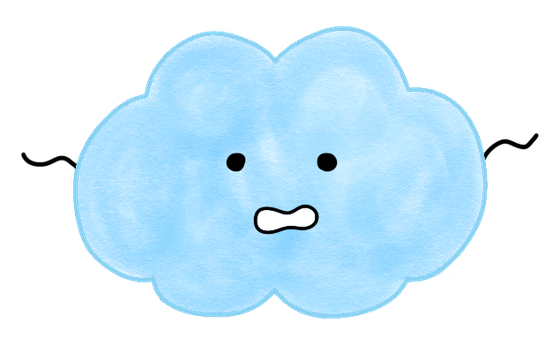
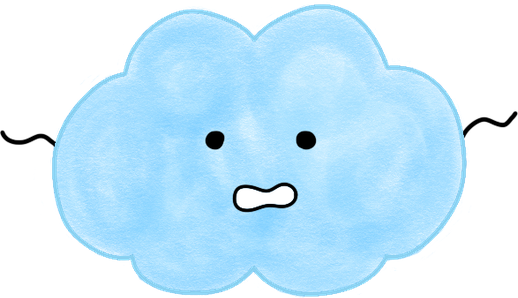
fix(frontend): 마스코트 6종을 내용 경계로 크롭하고 정사각 박스에 가운데 정렬
캐릭터마다 화면에서 위치·크기가 달라 보이던 원인이 두 겹이었다.

1) PNG 자체에 투명 여백이 있었다. 캔버스마다 18~21px씩, snow는 그마저
   비대칭이라 중심이 (-8, -6) 어긋나 있었다. drop은 오른쪽으로 알파 1~7의
   보이지 않는 잔털이 107px 뻗어 있어 그림이 그만큼 작게 그려졌다.
   여섯 장 모두 알파 경계(임계 8)로 크롭했다 — 잘려나간 것은 여백뿐이다.

2) SideNav 튜터가 폭만 지정하고 있었다(w-[74px]). 세로가 원본 비율을 따라가
   카드 높이가 캐릭터마다 달랐고(가로형 cloud 45.6px ↔ 세로형 bolt 119.4px)
   화면을 옮길 때마다 사이드바 아래가 들썩였다. 74x74 정사각으로 바꿨다.

object-contain은 호출부에서 걷어내 Mascot 안으로 옮겼다 — 빠뜨리면 세로가
정해진 박스에서 그림이 늘어나는데, 원본 비율이 캐릭터마다 달라 왜곡 정도가
제각각이 된다. 빠뜨릴 수 없는 자리에 둔다.

실측(74x74 박스): 여섯 장 전부 박스 중심과 그림 중심 오차 0.01px, 카드 높이
동일. 이전에는 bolt 하나가 카드 밖으로 45px 넘쳤다.

계약 테스트 `test:mascot` 추가(의존 0, 자체 PNG 디코더) — 세 조건을 다 못
박는다: PNG 투명 여백 0 · Mascot의 object-contain 내장 · 호출부 가로세로 동시 지정.
셋 중 하나만 어긋나도 증상은 똑같이 "정렬이 안 맞는다"로 나타나서 눈으로는
원인을 갈라낼 수 없다. 세 가지를 각각 되살려 전부 FAIL하는 것을 확인했다.
CI FRONT_TESTS에 등록(16종 -> 17종).

Claude-Session: https://claude.ai/code/session_011hpkhumU9a9HA8g6EA7o4t

diff --git a/frontend/src/components/Mascot.jsx b/frontend/src/components/Mascot.jsx
@@ -13,6 +13,12 @@
  * 참조하면 캐릭터가 바뀔 때마다 화면 곳곳을 고쳐야 하므로 여기 한 곳으로 모은다.
  * 파일명은 ASCII로 둔다 — 한글 파일명은 브라우저가 URL 인코딩해서 서버 설정에
  * 따라 404가 난다.
+ *
+ * 정렬(2026-08-06): PNG는 **알파 내용 경계로 크롭돼 있다**. 원본은 캔버스마다
+ * 투명 여백이 제각각이었고(snow는 중심이 8px 어긋나 있었다) 같은 박스에 넣어도
+ * 캐릭터마다 다른 위치·다른 크기로 보였다. 크롭 + 아래 object-contain + 호출부의
+ * **정사각 박스** 세 가지가 같이 있어야 여섯 캐릭터가 한 자리에 맞는다.
+ * ⚠ 새 캐릭터 PNG를 추가하면 넣기 전에 여백을 깎을 것(내용 경계 = 이미지 경계).
  */
 
 const SRC = {
@@ -40,7 +46,10 @@ export default function Mascot({ name = 'sun', className = '', decorative = true
   return (
     <img
       src={src}
-      className={className}
+      // object-contain은 호출부에 맡기지 않는다 — 빠뜨리면 세로가 정해진 박스에서
+      // 그림이 늘어나고, 캐릭터마다 원본 비율이 달라(가로형 cloud ↔ 세로형 bolt)
+      // 한 화면 안에서 왜곡 정도가 제각각이 된다.
+      className={`object-contain ${className}`}
       // 캐릭터는 장식이다 — 정오답·진도 같은 의미는 옆의 배지·문구가 전달하므로
       // 스크린리더에서 중복해 읽지 않게 기본은 숨긴다.
       alt={decorative ? '' : (LABEL[name] ?? '')}

diff --git a/frontend/src/modules/home/HomePage.jsx b/frontend/src/modules/home/HomePage.jsx
@@ -240,7 +240,7 @@ export default function HomePage() {
           ) : (
             due.map((r) => (
               <div key={r.concept_tag} className="mt-3 flex items-center gap-2.5">
-                <Mascot name={conceptCharacter(r.concept_tag)} className="h-12 w-12 flex-none object-contain" />
+                <Mascot name={conceptCharacter(r.concept_tag)} className="h-12 w-12 flex-none" />
                 <div className="min-w-0">
                   <p className="text-[13px] font-extrabold text-slate-900">{conceptLabel(t, r.concept_tag)}</p>
                   <p className="mt-0.5 text-[11.5px] text-slate-500">
@@ -264,7 +264,7 @@ export default function HomePage() {
             <div className="flex min-w-0 flex-1 flex-col gap-1.5">
               {(abilities ?? []).map((a) => (
                 <div key={a.concept_tag} className="flex items-center gap-2 text-xs">
-                  <Mascot name={conceptCharacter(a.concept_tag)} className="h-7 w-7 flex-none object-contain" />
+                  <Mascot name={conceptCharacter(a.concept_tag)} className="h-7 w-7 flex-none" />
                   <span className="min-w-0 truncate font-bold text-slate-700">{conceptLabel(t, a.concept_tag)}</span>
                   <span className="ml-auto flex-none text-[11.5px] font-extrabold text-sky-700">
                     {t(`ability.level.${a.level_label}`)}

diff --git a/frontend/src/components/SideNav.jsx b/frontend/src/components/SideNav.jsx
@@ -68,7 +68,10 @@ export default function SideNav() {
       </nav>
 
       <div className="mt-auto rounded-2xl border border-slate-200 bg-white p-3 text-center">
-        <Mascot name={mascot} className="mx-auto w-[74px]" />
+        {/* 정사각 박스 — 폭만 주면 세로가 원본 비율을 따라가 캐릭터마다 카드
+            높이가 달라지고(가로형 cloud 43px ↔ 세로형 bolt 123px) 화면을 옮길
+            때마다 사이드바 아래가 들썩인다. */}
+        <Mascot name={mascot} className="mx-auto h-[74px] w-[74px]" />
         <p className="mt-1.5 text-[12.5px] font-extrabold text-slate-800">{t(nameKey)}</p>
         <p className="mt-0.5 text-[11px] leading-snug text-slate-400">{t(lineKey)}</p>
       </div>

diff --git a/frontend/src/components/FeedbackPanel.jsx b/frontend/src/components/FeedbackPanel.jsx
@@ -22,7 +22,7 @@ export default function FeedbackPanel({ message, isCorrect }) {
         <div className="flex gap-3 p-4">
           {/* 정오답은 배지·문구가 전달하므로 캐릭터는 장식 — 스크린리더 중복 방지.
               포즈가 1종뿐이라 정오답으로 그림을 바꾸지 않는다. */}
-          <Mascot name="bolt" className="w-14 shrink-0 self-start object-contain" />
+          <Mascot name="bolt" className="h-14 w-14 shrink-0 self-start" />
           <div className="min-w-0 flex-1">
             <span className={`rounded-full px-2.5 py-0.5 text-xs font-bold ${tone.badge}`}>
               {t('feedback.ai')}
